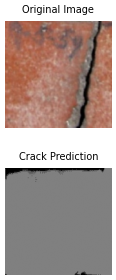
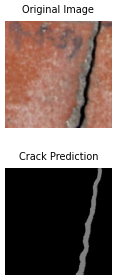
chore: ingore

diff --git a/config_class.py b/config_class.py
@@ -50,7 +50,7 @@ class Config:
         self.working_folder = working_folder
         
         # Define the mode that will be used when running the code
-        self.mode = 'train' #'build_data' # 'train', 'evaluate' or 'build_data'
+        self.mode = 'evaluate' #'build_data' # 'train', 'evaluate' or 'build_data'
         # Info that will be used as prefix of any output files
         self.info = 'crack_detection'
         # Dimensions of the images that will be fed to the network
@@ -265,10 +265,10 @@ class Config:
         elif self.mode == 'evaluate':
             
             # Define the counter suitably in order to read the correct JSON file etc.
-            self.args['counter'] = 413480
+            self.args['counter'] = 393368
             # Define the file with the pretrained weights or the model with weights that will be used to evaluate model
             # e.g. 'crack detection_1_epoch_7_F1_score_dil_0.762.h5'
-            self.args['pretrained_filename'] = 'crack_detection_413480_epoch_1_F1_score_dil_0.114.h5'
+            self.args['pretrained_filename'] = 'crack_detection_393368_epoch_10_F1_score_dil_0.768.h5'
             # Define the subfolder where predictions will be stored
             self.args['predictions_subfolder'] = '{}{}/'.format(self.args['predictions'], self.args['pretrained_filename'])
             # Define whether to dilate ground truth mask for the calculation of Precision metric
